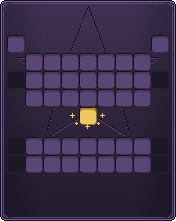
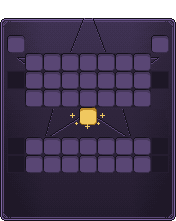
Menu Récompenses : bord du haut descendu avec la partie coffre, étoile coupée par le bord

Changed region(s): [[0.0, 0.0, 1.0, 0.1086]]

diff --git a/Flux/assets/recompenses/gen_fond.py b/Flux/assets/recompenses/gen_fond.py
@@ -2,22 +2,21 @@
 
 Haut : image retouchée par l'utilisateur le 2026-10-28 (fond_haut_utilisateur.png : grande étoile gravée en
 filigrane, boîte des 21 récompenses avec page précédente et suivante sur des cases noircies, Tout récupérer et son
-halo), descendue d'une rangée (seuls ses pixels qui diffèrent du fond générique sont reportés, le dégradé reste
-celui du générique) : récompenses 19-25 / 28-34 / 37-43, flèches 27 et 35, Tout récupérer 49. Rangée 1 : cases
+halo), descendue d'une rangée avec le bord du haut (cadre du générique raccourci d'autant, l'étoile reste
+coupée par le bord) : récompenses 19-25 / 28-34 / 37-43, flèches 27 et 35, Tout récupérer 49. Rangée 1 : cases
 du retour (9) et de l'explication (17). Bas : deux frises dans une même boîte, connexion (55-61, flèches 54 / 62)
 et temps de jeu (64-70, flèches 63 / 71).
 Les cases de l'inventaire masqué sont 2 px plus haut que dans fond_lib.objet (relevé en jeu par l'utilisateur).
 
 Usage : python gen_fond.py <fichier png> [aperçu agrandi]  (Pillow requis)
 """
-import math
 import os
 import sys
 from PIL import Image, ImageDraw
 
 ICI = os.path.dirname(os.path.abspath(__file__))
 sys.path.insert(0, os.path.dirname(ICI))
-from fond_lib import poser, tampon_case  # noqa: E402
+from fond_lib import generique_raccourci, poser, tampon_case  # noqa: E402
 
 W, H = 176, 221
 COUPE = 128
@@ -47,25 +46,12 @@ def case_noire(d, n):
 
 
 def fond():
-    im = Image.open(os.path.join(os.path.dirname(ICI), "menu_generique.png")).convert("RGBA")
-    generique = im.copy().load()
-    haut = Image.open(os.path.join(ICI, "fond_haut_utilisateur.png")).convert("RGBA").load()
-    px = im.load()
-    for y in range(3, COUPE):
-        if y + DECALAGE >= LIMITE:
-            break
-        for x in range(4, W - 4):
-            if haut[x, y] != generique[x, y]:
-                px[x, y + DECALAGE] = haut[x, y]
+    # cadre du générique raccourci : le bord du haut descend d'une rangée avec la partie coffre
+    im = generique_raccourci(os.path.join(os.path.dirname(ICI), "menu_generique.png"), DECALAGE, H - 1)
+    haut = Image.open(os.path.join(ICI, "fond_haut_utilisateur.png")).convert("RGBA")
+    # partie coffre de l'utilisateur, bord du haut compris (l'étoile reste coupée par le bord)
+    im.paste(haut.crop((0, 0, W, LIMITE - DECALAGE)), (0, DECALAGE))
     d = ImageDraw.Draw(im)
-    # pointe haute de l'étoile, cachée par le bord dans l'image d'origine et visible une fois descendue
-    centre, apex = (88, 80), (88, 6)
-    for k in (-54, -126):
-        a = math.radians(k)
-        bout = (centre[0] + 31.08 * math.cos(a), centre[1] + 31.08 * math.sin(a))
-        fin = (apex[0] + (bout[0] - apex[0]) * .3, apex[1] + (bout[1] - apex[1]) * .3)
-        d.line([(apex[0], apex[1] + 1), (fin[0], fin[1] + 1)], CADRE)
-        d.line([apex, fin], CONTOUR)
     case = tampon_case()
     for n in EN_TETE:
         poser(im, case, *objet(n))
@@ -74,7 +60,6 @@ def fond():
     for n in FLECHES:
         case_noire(d, n)
     return im
-
 
 if __name__ == "__main__":
     im = fond()
